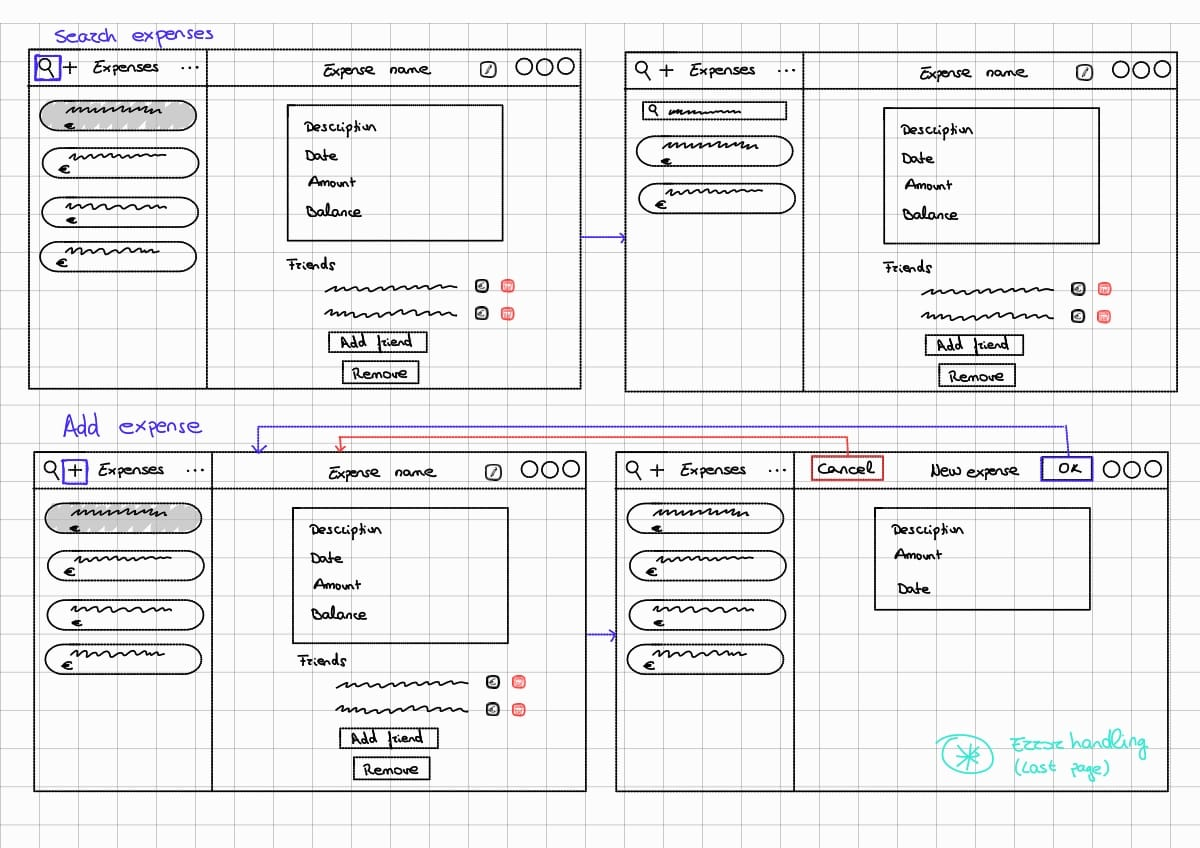
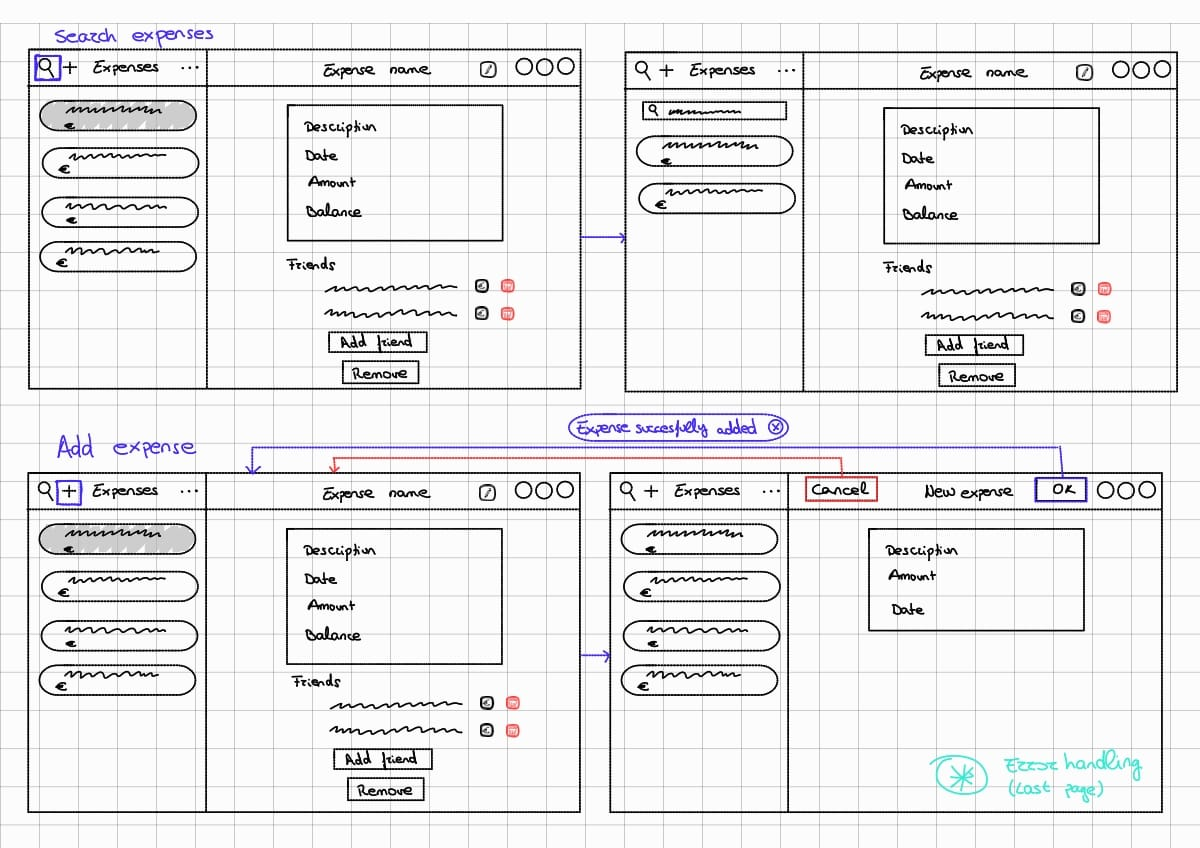
[DISEÑOS] actualizado diseño_iu

Changed region(s): [[0.0, 0.4599, 0.9867, 0.9505]]

diff --git a/diseños/diseño-iu.md b/diseños/diseño-iu.md
@@ -17,9 +17,9 @@
 # ✏️ Wireframes
 ![](images/main_screen.jpeg)
 ![](images/search_and_add_expense.jpeg)
-![](images/edit_remove_exp_and_add_friend.jpeg)
-![](images/add_credit_and_remove_friend_errors.jpeg)
-![](images/about_and_scale.jpeg)
+![](images/edit_remove_and_add_friend_exp.jpeg)
+![](images/add_credit_remove_friend_exp_scale_window.jpeg)
+![](images/about_and_view_exp.jpeg)
 ![](images/error_handling.jpeg)
 
 ---